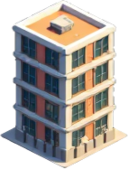
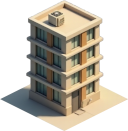
Balance volcanic industries and services; a few volcanic region fixes
Make the first couple service buildings not require electronics
Fix order of monolith and rubble
Redo volcanic apartment because it looked bigger than a highrise
Add Apples to Red Greenhouse

diff --git a/src/game/BuildingTypes.ts b/src/game/BuildingTypes.ts
@@ -4316,7 +4316,7 @@ export class RedGreenhouse extends Building {
             3, 3, 0,
             0.3,
         );
-        this.outputResourceOptions = [Grain, RootVegetables, Berries, LeafyGreens, Legumes].map(foodType => new foodType(0, 5));
+        this.outputResourceOptions = [Grain, RootVegetables, Apples, Berries, LeafyGreens, Legumes].map(foodType => new foodType(0, 5));
         this.effects = new BuildingEffects([new EffectDefinition(EffectType.GreenhouseGases, -0.05)]);
         this.onlyAllowInRegions.push("volcanic");
     }
@@ -4404,7 +4404,7 @@ export class ObsidianGatherer extends Building {
             2, 2, 0,
             0.3,
         );
-        this.outputResources.push(new Obsidian(0, 1));
+        this.outputResources.push(new Obsidian(0, 2));
         this.onlyAllowInRegions.push("volcanic");
     }
 
@@ -4413,10 +4413,10 @@ export class ObsidianGatherer extends Building {
     }
 
     override getUpkeep(city: City, atEfficiency: number = 0): { type: string, amount: number }[] {
-        return [{ type: "flunds", amount: 1.5 * (atEfficiency || this.poweredTimeDuringLongTick) }];
+        return [{ type: "flunds", amount: 0.5 * (atEfficiency || this.poweredTimeDuringLongTick) }];
     }
 
-    override getPowerUpkeep(city: City, ideal: boolean = false): number { return (ideal ? 1 : this.lastEfficiency) * 5; }
+    override getPowerUpkeep(city: City, ideal: boolean = false): number { return (ideal ? 1 : this.lastEfficiency) * 3; }
 }
 
 export class ObsidianCrusher extends Building {
@@ -4428,7 +4428,7 @@ export class ObsidianCrusher extends Building {
             0.3,
         );
         this.inputResources.push(new Obsidian(0, 0, 1));
-        this.outputResources.push(new Sand(0, 2));
+        this.outputResources.push(new Sand(0, 2.5));
         this.onlyAllowInRegions.push("volcanic");
     }
 
@@ -4437,7 +4437,7 @@ export class ObsidianCrusher extends Building {
     }
 
     override getUpkeep(city: City, atEfficiency: number = 0): { type: string, amount: number }[] {
-        return [{ type: "flunds", amount: 2 * (atEfficiency || this.poweredTimeDuringLongTick) }];
+        return [{ type: "flunds", amount: 0.75 * (atEfficiency || this.poweredTimeDuringLongTick) }];
     }
 
     override getPowerUpkeep(city: City, ideal: boolean = false): number { return (ideal ? 1 : this.lastEfficiency) * 6; }
@@ -4463,7 +4463,7 @@ export class VolcanoIronMine extends Building {
     }
 
     override getUpkeep(city: City, atEfficiency: number = 0): { type: string, amount: number }[] {
-        return [{ type: "flunds", amount: 2.5 * (atEfficiency || this.poweredTimeDuringLongTick) }];
+        return [{ type: "flunds", amount: 1.5 * (atEfficiency || this.poweredTimeDuringLongTick) }];
     }
 
     override getPowerUpkeep(city: City, ideal: boolean = false): number { return (ideal ? 1 : this.lastEfficiency) * 7; }
@@ -4516,8 +4516,8 @@ export class Tumbler extends Building {
             2, 2, 0,
             0.3,
         );
-        this.inputResources.push(new FireObsidian(0, 0, 1));
-        this.outputResources.push(new Gemstones(0, 1));
+        this.inputResources.push(new FireObsidian(0, 0, 1.5));
+        this.outputResources.push(new Gemstones(0, 2.25));
         this.onlyAllowInRegions.push("volcanic");
     }
 
@@ -4526,7 +4526,7 @@ export class Tumbler extends Building {
     }
 
     override getUpkeep(city: City, atEfficiency: number = 0): { type: string, amount: number }[] {
-        return [{ type: "flunds", amount: 3 * (atEfficiency || this.poweredTimeDuringLongTick) }];
+        return [{ type: "flunds", amount: 2.5 * (atEfficiency || this.poweredTimeDuringLongTick) }];
     }
 
     override getPowerUpkeep(city: City, ideal: boolean = false): number { return (ideal ? 1 : this.lastEfficiency) * 8; }
@@ -4596,7 +4596,8 @@ export class PoliceRovers extends Building {
     }
 
     override getCosts(city: City): { type: string, amount: number }[] {
-        return [{ type: "flunds", amount: 300 }, { type: "steel", amount: 10 }, { type: "electronics", amount: 5 }];
+        //No electronics cost for the first one, but you need Secure Storage to build more after that
+        return city.presentBuildingCount.get("policerovers") ? [{ type: "flunds", amount: 300 }, { type: "steel", amount: 10 }, { type: "electronics", amount: 5 }] : [{ type: "flunds", amount: 300 }, { type: "steel", amount: 10 }];
     }
 
     override getUpkeep(city: City, atEfficiency: number = 0): { type: string, amount: number }[] {
@@ -4626,7 +4627,8 @@ export class DroneFireControl extends Building {
     }
 
     override getCosts(city: City): { type: string, amount: number }[] {
-        return [{ type: "flunds", amount: 350 }, { type: "steel", amount: 10 }, { type: "electronics", amount: 8 }];
+        //No electronics cost for the first one, but you need Secure Storage to build more after that
+        return city.presentBuildingCount.get("dronefirecontrol") ? [{ type: "flunds", amount: 350 }, { type: "steel", amount: 10 }, { type: "electronics", amount: 8 }] : [{ type: "flunds", amount: 350 }, { type: "steel", amount: 10 }];
     }
 
     override getUpkeep(city: City, atEfficiency: number = 0): { type: string, amount: number }[] {

diff --git a/src/game/Region.ts b/src/game/Region.ts
@@ -51,7 +51,7 @@ export const REGIONS = [
         [AlienMonolith, 26, 0, 4], [MysteriousRubble, 26, 0, 4],
     ]),
     new Region("volcanic", "Volcanic Desert", 64, 64, 1, [[DryWoods, 7, 7, 1], [Ignimbrite, 0, 14, 1], [ActiveVolcano, 11, 4, 1], [Ignimbrite, 14, 1, 1], [GeothermalVent, 17, 1, 1], [Ignimbrite, 18, 0, 1], [SmallBoulder, 3, 16, 1], [ActiveVolcano, 6, 16, 1], [SmallBoulder, 4, 18, 1], [ActiveVolcano, 23, 0, 1], [GemBoulder, 15, 10, 1], [SmallBoulder, 10, 15, 1], [DryWoods, 12, 13, 1], [SmallBoulder, 1, 25, 1], [GemBoulder, 7, 20, 1], [GeothermalVent, 11, 18, 1], [Ignimbrite, 10, 19, 1], [SmallBoulder, 25, 4, 1], [Ignimbrite, 27, 3, 1], [SmallBoulder, 21, 10, 1], [HotSpring, 5, 26, 1], [Ignimbrite, 7, 24, 1],
-        [GeothermalVent, 30, 2, 1], [Ignimbrite, 32, 1, 1], [DryWoods, 4, 30, 1], [DryWoods, 12, 22, 1], [Ignimbrite, 27, 9, 1], [GemBoulder, 9, 28, 1], [Ignimbrite, 26, 12, 1], [Ignimbrite, 22, 17, 1], [GemBoulder, 32, 7, 1], [LakeOfFire, 30, 10, 1], [Ignimbrite, 13, 27, 1], [DryWoods, 2, 39, 1], [Ignimbrite, 25, 16, 1], [Ignimbrite, 16, 25, 1], [ActiveVolcano, 24, 20, 1], [Ignimbrite, 42, 2, 1], [LakeOfFire, 15, 30, 1], [ActiveVolcano, 41, 5, 1], [DryWoods, 19, 27, 1], [SmallBoulder, 14, 33, 1], [SmallBoulder, 8, 39, 1], [GeothermalVent, 45, 3, 1], [Ignimbrite, 11, 37, 1], [GeothermalVent, 10, 40, 1], [GemBoulder, 26, 24, 1], [SmallBoulder, 28, 22, 1], [DryWoods, 1, 50, 1], [Ignimbrite, 35, 17, 1], [GemBoulder, 43, 9, 1], [Ignimbrite, 51, 2, 1], [DryWoods, 7, 46, 1], [SmallBoulder, 48, 5, 1], [GemBoulder, 12, 42, 1], [Ignimbrite, 27, 27, 1], [ActiveVolcano, 39, 16, 1], [DryWoods, 20, 35, 1], [Ignimbrite, 43, 14, 1], [Ignimbrite, 54, 3, 1], [DryWoods, 35, 22, 1], [SmallBoulder, 52, 5, 1], [DryWoods, 18, 39, 1], [MysteriousRubble, 24, 35, 1], [AlienMonolith, 24, 35, 1], [ActiveVolcano, 60, 0, 1], [GeothermalVent, 46, 14, 1], [Ignimbrite, 32, 28, 1], [SmallBoulder, 50, 10, 1], [SmallBoulder, 41, 20, 1], [GeothermalVent, 31, 31, 1], [GemBoulder, 43, 19, 1], [DryWoods, 5, 57, 1], [SmallBoulder, 11, 51, 1],
+        [GeothermalVent, 30, 2, 1], [Ignimbrite, 32, 1, 1], [DryWoods, 4, 30, 1], [DryWoods, 12, 22, 1], [Ignimbrite, 27, 9, 1], [GemBoulder, 9, 28, 1], [Ignimbrite, 26, 12, 1], [Ignimbrite, 22, 17, 1], [GemBoulder, 32, 7, 1], [LakeOfFire, 30, 10, 1], [Ignimbrite, 13, 27, 1], [DryWoods, 2, 39, 1], [Ignimbrite, 25, 16, 1], [Ignimbrite, 16, 25, 1], [ActiveVolcano, 24, 20, 1], [Ignimbrite, 42, 2, 1], [LakeOfFire, 15, 30, 1], [ActiveVolcano, 41, 5, 1], [DryWoods, 19, 27, 1], [SmallBoulder, 14, 33, 1], [SmallBoulder, 8, 39, 1], [GeothermalVent, 45, 3, 1], [Ignimbrite, 11, 37, 1], [GeothermalVent, 10, 40, 1], [GemBoulder, 26, 24, 1], [SmallBoulder, 28, 22, 1], [DryWoods, 1, 50, 1], [Ignimbrite, 35, 17, 1], [GemBoulder, 43, 9, 1], [Ignimbrite, 51, 2, 1], [DryWoods, 7, 46, 1], [SmallBoulder, 48, 5, 1], [GemBoulder, 12, 42, 1], [Ignimbrite, 27, 27, 1], [ActiveVolcano, 39, 16, 1], [DryWoods, 20, 35, 1], [Ignimbrite, 43, 14, 1], [Ignimbrite, 54, 3, 1], [DryWoods, 35, 22, 1], [SmallBoulder, 52, 5, 1], [DryWoods, 18, 39, 1], [AlienMonolith, 24, 35, 1], [MysteriousRubble, 24, 35, 1], [ActiveVolcano, 60, 0, 1], [GeothermalVent, 46, 14, 1], [Ignimbrite, 32, 28, 1], [SmallBoulder, 50, 10, 1], [SmallBoulder, 41, 20, 1], [GeothermalVent, 31, 31, 1], [GemBoulder, 43, 19, 1], [DryWoods, 5, 57, 1], [SmallBoulder, 11, 51, 1],
         [LakeOfFire, 53, 11, 1], [GeothermalVent, 8, 56, 1], [GemBoulder, 56, 8, 1], [DryWoods, 19, 45, 1], [LithiumPlateau, 12, 53, 1], [Ignimbrite, 30, 35, 1], [SmallBoulder, 26, 40, 1], [Ignimbrite, 29, 38, 1], [DryWoods, 16, 51, 1], [SmallBoulder, 53, 14, 1], [GeothermalVent, 25, 44, 1], [Ignimbrite, 37, 32, 1], [SmallBoulder, 11, 58, 1], [DryWoods, 26, 44, 1], [LakeOfFire, 40, 31, 1], [Ignimbrite, 57, 14, 1], [Ignimbrite, 50, 22, 1], [GemBoulder, 32, 40, 1], [SmallBoulder, 37, 35, 1], [Ignimbrite, 49, 25, 1], [DryWoods, 15, 59, 1], [SmallBoulder, 23, 51, 1], [DryWoods, 31, 43, 1], [SmallBoulder, 28, 48, 1], [Ignimbrite, 59, 18, 1], [GemBoulder, 56, 24, 1], [GemBoulder, 46, 34, 1], [SmallBoulder, 50, 30, 1], [LakeOfFire, 53, 28, 1], [DryWoods, 26, 55, 1], [DryWoods, 43, 39, 1], [GeothermalVent, 52, 32, 1], [GeothermalVent, 42, 43, 1], [DryWoods, 41, 44, 1], [Ignimbrite, 61, 24, 1], [SmallBoulder, 58, 28, 1], [DryWoods, 36, 51, 1], [SmallBoulder, 30, 58, 1], [SmallBoulder, 40, 51, 1], [DryWoods, 57, 35, 1], [SmallBoulder, 45, 47, 1], [Ignimbrite, 53, 41, 1], [Ignimbrite, 50, 44, 1], [DryWoods, 37, 58, 1], [DryWoods, 42, 53, 1], [GemBoulder, 49, 49, 1], [HotSpring, 53, 46, 1], [SmallBoulder, 56, 46, 1], [SmallBoulder, 47, 57, 1], [DryWoods, 55, 50, 1], [DryWoods, 53, 54, 1], [DryWoods, 50, 60, 1], [DryWoods, 59, 53, 1], [SmallBoulder, 55, 58, 1],
     ]),
 ];
